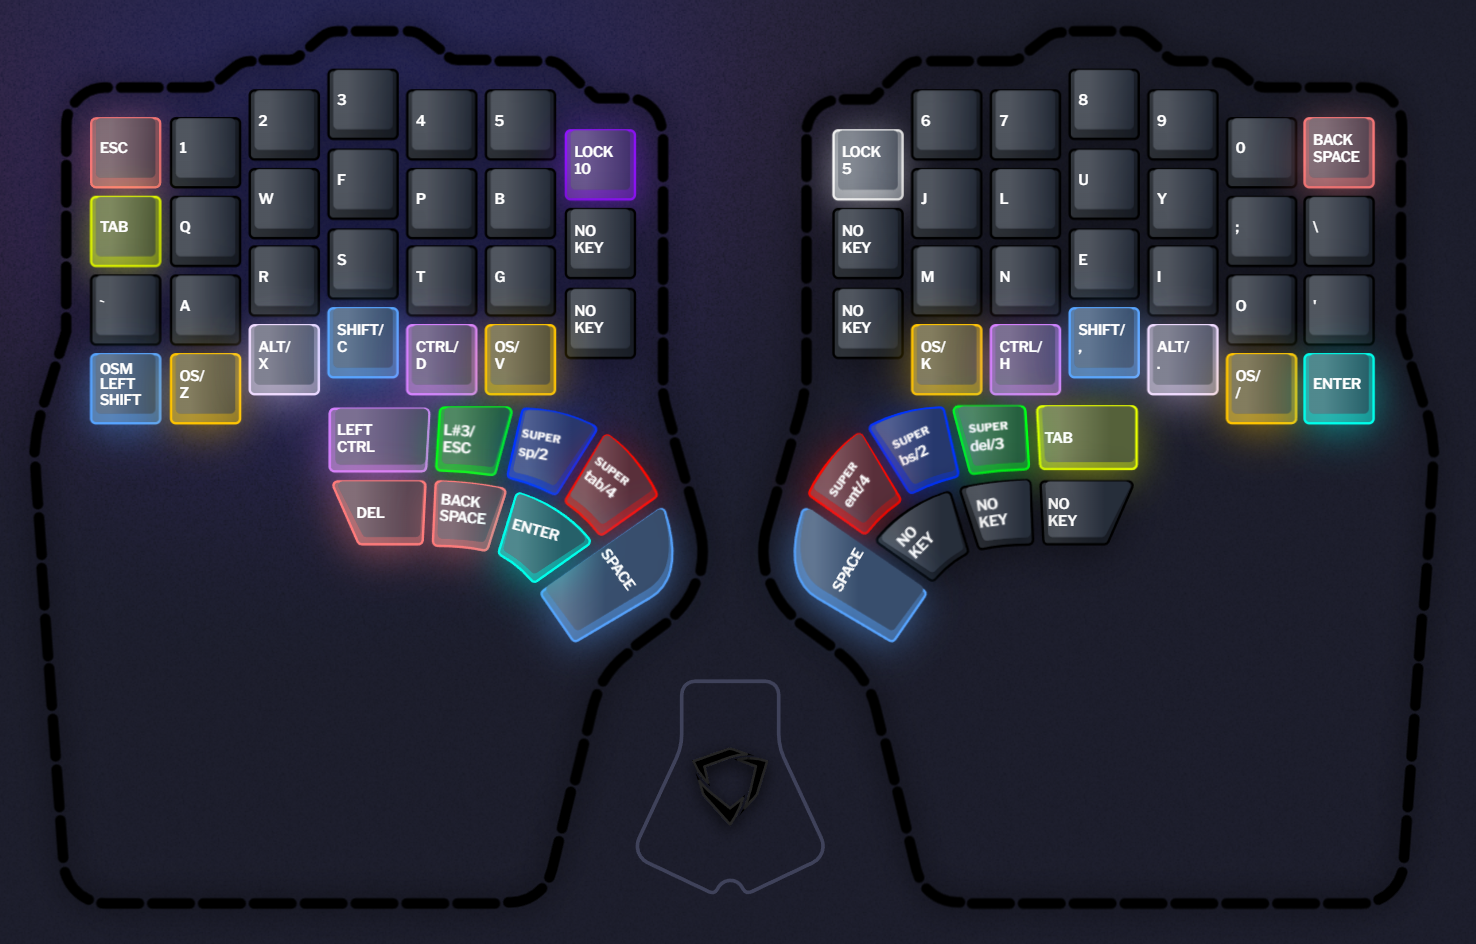
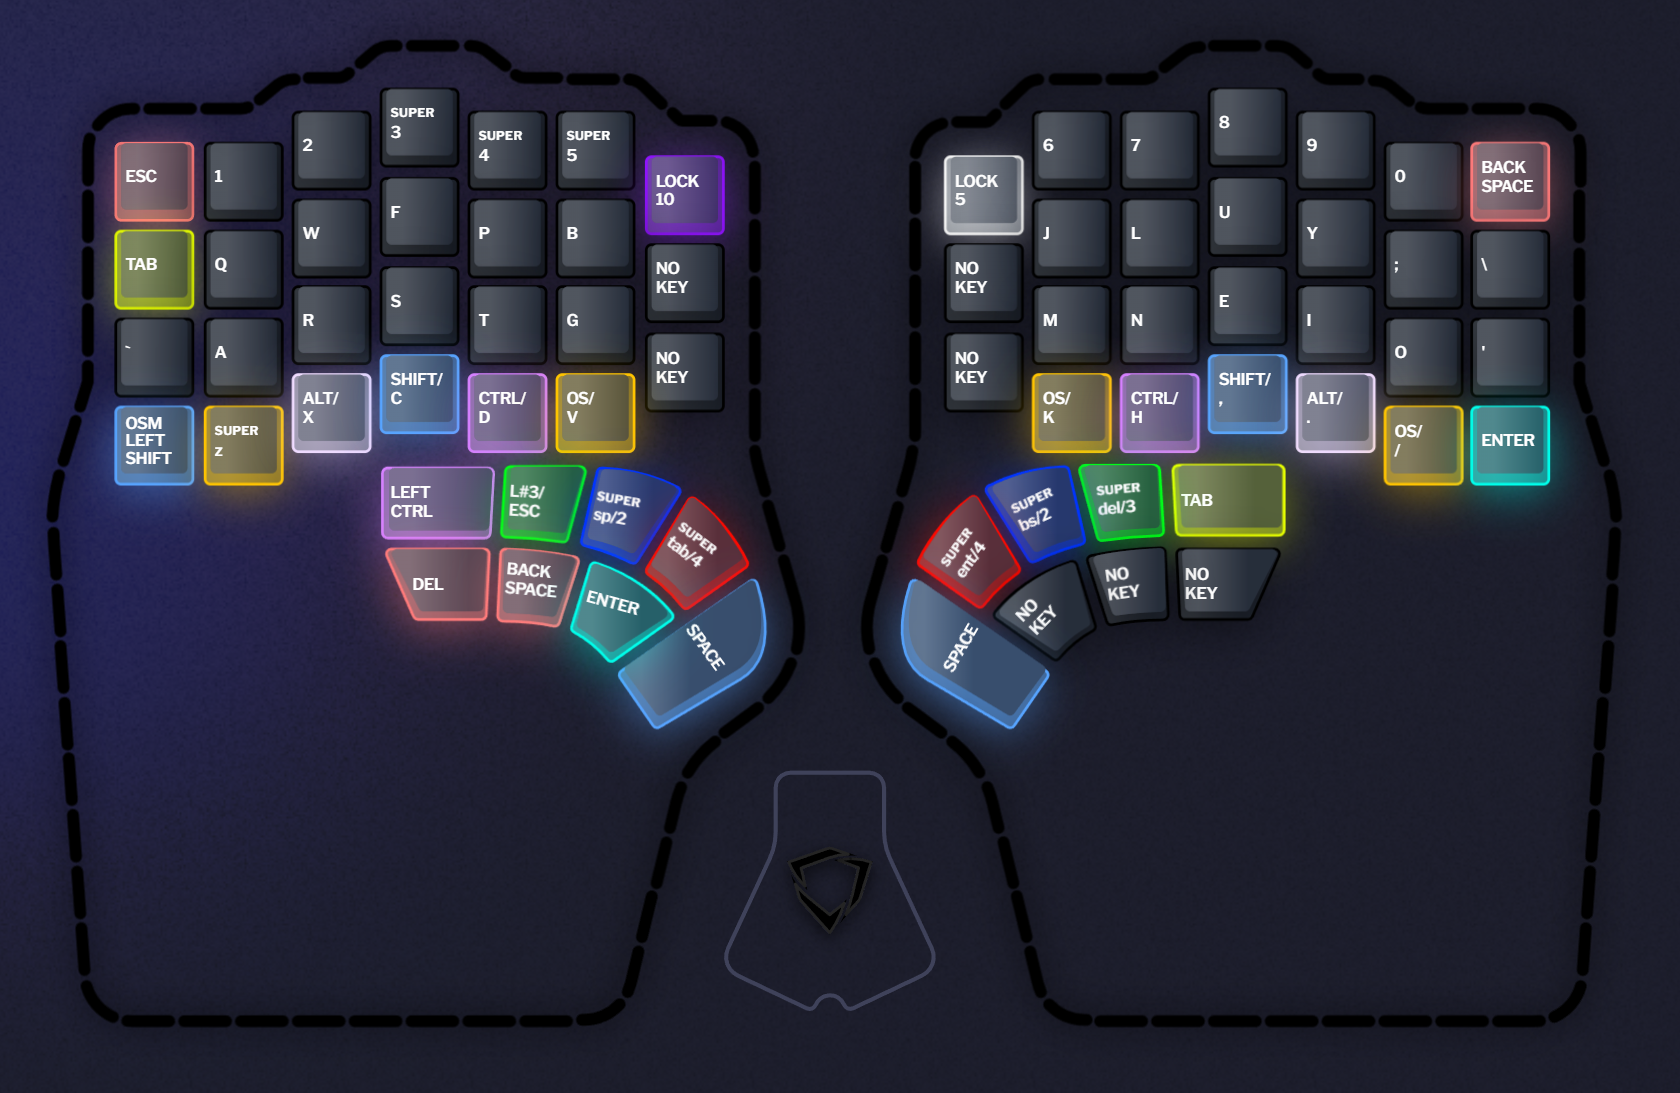
Update layout

diff --git a/profiles/lower-row/readme.md b/profiles/lower-row/readme.md
@@ -20,7 +20,8 @@ or when performing undo (`cmd+z`).
 
 As for `GASC` vs `GACS`,
 one extra benefits I have found with [colemak-dh] layout is that I can do `ctrl+s` and `ctrl+c` only with my left hand.
-For `ctrl+d` with only left hand, I can do that with the thumb key `L15`.
+For `ctrl+d` with only left hand, I can do that with the thumb key `L15`,
+or the `super z`, which served as `G: OS` when hold, and `Ctrl` when tap+hold.
 
 ## Layer 1 - colemak-dh
 
@@ -37,6 +38,8 @@ but currently (as of firmware 1.2.5-beta) there are some limitation preventing t
 ### Layer 1 Main Area
 
 The first row (`ESC-1...5` and `6...0-BACKSPACE`) are for convenience and familiarity.
+The `super 3`, `super 4`, take screenshots when tap+hold and 2tap+hold,
+while `super 5` opens a split terminal in vscode.
 
 The `TAB` in the second row is also for familiarity, but it is seldom used.
 It might be removed or reassigned in the future.
@@ -88,7 +91,9 @@ and `LOCK 5` is a tap layout without mods.
 ![Layer 2 - Numbers](layer-2.png)
 
 This is the numbers layer but can also act as navigation layer with the num pad and num lock.
-The bottom row has the same `GASCG` mod.
+The bottom row has the same `GASCG` mod on the right side.
+The left side does not have mod because there is no usage for that,
+and using simple keys make it more responsive.
 
 ### Layer 2 Main Area
 
@@ -137,6 +142,10 @@ Right side captures the navigation and mouse keys.
 ## Layer 4 - functions
 
 ![Layer 4 - functions](layer-4.png)
+
+## Keyboard Preferences
+
+![Preferences](preferences.png)
 
 [colemak-dh]: https://colemakmods.github.io/mod-dh/
 [rm-superkey]: ../../superkeys/readme.md#rm-superkey
